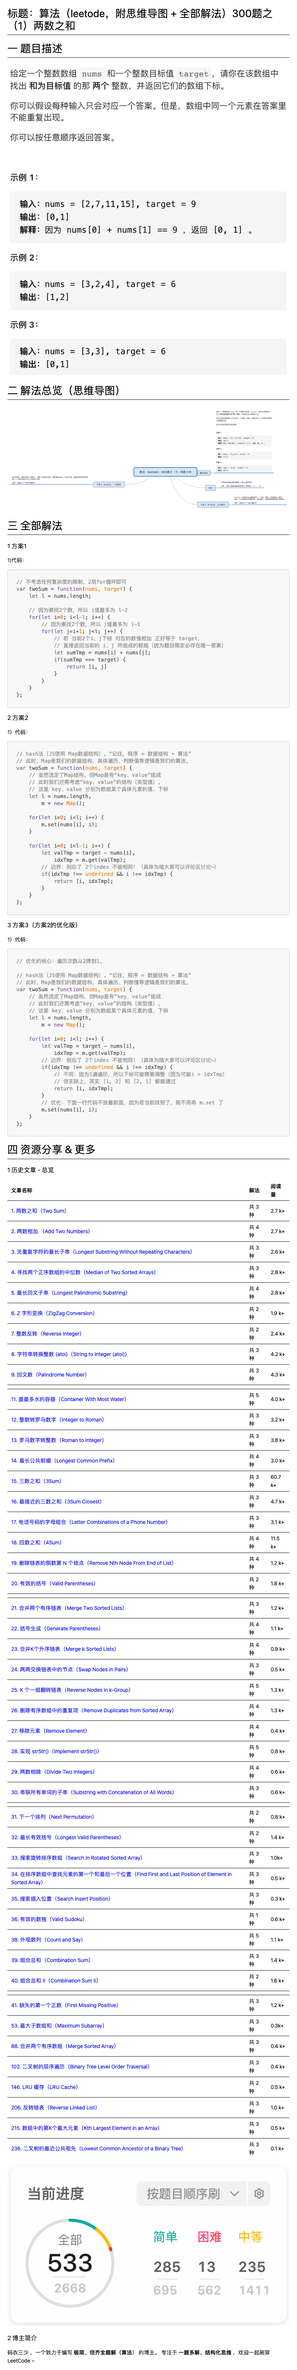
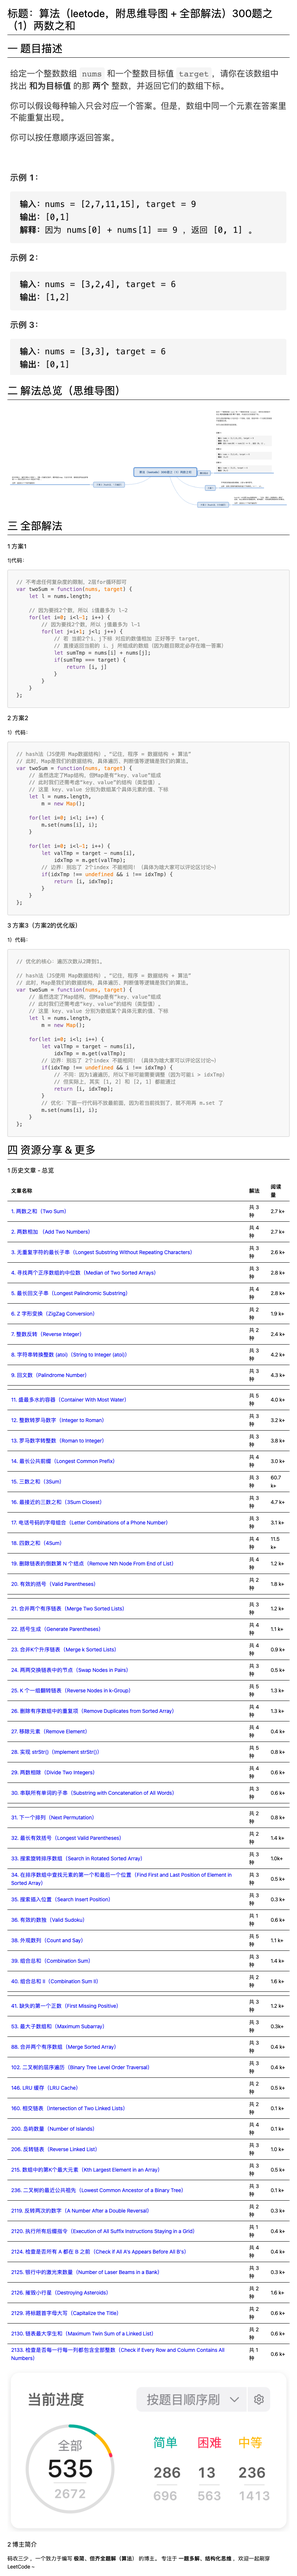
增加:1-10题的png文件

diff --git a/5. 最长回文子串（Longest Palindromic Substring）/index.md b/5. 最长回文子串（Longest Palindromic Substring）/index.md
@@ -5,7 +5,6 @@
 ![题目描述](https://cdn.jsdelivr.net/gh/CYBYOB/img/2021-8-1/1627790309769-image.png)
 
 # 二 解法总览（思维导图）
-
 ![思维导图](https://cdn.jsdelivr.net/gh/CYBYOB/img/2021-8-1/1627807351493-%E7%AE%97%E6%B3%95%EF%BC%88leetode%EF%BC%8C%E9%99%84%E6%80%9D%E7%BB%B4%E5%AF%BC%E5%9B%BE%20+%20%E5%85%A8%E9%83%A8%E8%A7%A3%E6%B3%95%EF%BC%89300%E9%A2%98%E4%B9%8B%EF%BC%885%EF%BC%89%E6%9C%80%E9%95%BF%E5%9B%9E%E6%96%87%E5%AD%90%E4%B8%B2.png)
 
 # 三 全部解法
@@ -197,7 +196,6 @@ class Solution {
 
 # 四 资源分享 & 更多
 ### 1 历史文章 - 总览
-
 |  文章名称  |  解法  |  阅读量  |
 |  ----  |  ----  |  ----  |
 | [1. 两数之和（Two Sum）](https://www.nowcoder.com/discuss/694669)  |  共 3 种  |  2.7 k+  |
@@ -247,11 +245,21 @@ class Solution {
 | [88. 合并两个有序数组（Merge Sorted Array）](https://www.nowcoder.com/discuss/964446)  |  共 3 种  |  0.4 k+  |
 | [102. 二叉树的层序遍历（Binary Tree Level Order Traversal）](https://www.nowcoder.com/discuss/963081)  |  共 3 种  |  0.4 k+  |
 | [146. LRU 缓存（LRU Cache）](https://www.nowcoder.com/discuss/953216)  |  共 2 种  |  0.5 k+  |
+| [160. 相交链表（Intersection of Two Linked Lists）](https://www.nowcoder.com/discuss/967316)  |  共 2 种  |  0.1 k+  |
+| [200. 岛屿数量（Number of Islands）](https://www.nowcoder.com/discuss/967192)  |  共 4 种  |  0.1 k+  |
 | [206. 反转链表（Reverse Linked List）](https://www.nowcoder.com/discuss/952847)  |  共 3 种  |  1.0 k+  |
 | [215. 数组中的第K个最大元素（Kth Largest Element in an Array）](https://www.nowcoder.com/discuss/956928)  |  共 3 种  |  0.5 k+  |
 | [236. 二叉树的最近公共祖先（Lowest Common Ancestor of a Binary Tree）](https://www.nowcoder.com/discuss/964696)  |  共 3 种  |  0.1 k+  |
+| [2119. 反转两次的数字（A Number After a Double Reversal）](https://www.nowcoder.com/discuss/867972)  |  共 2 种  |  0.3 k+  |
+| [2120. 执行所有后缀指令（Execution of All Suffix Instructions Staying in a Grid）](https://www.nowcoder.com/discuss/846814)  |  共 1 种  |  0.4 k+  |
+| [2124. 检查是否所有 A 都在 B 之前（Check if All A's Appears Before All B's）](https://www.nowcoder.com/discuss/841288)  |  共 4 种  |  0.4 k+  |
+| [2125. 银行中的激光束数量（Number of Laser Beams in a Bank）](https://www.nowcoder.com/discuss/840968)  |  共 3 种  |  0.3 k+  |
+| [2126. 摧毁小行星（Destroying Asteroids）](https://www.nowcoder.com/discuss/834640)  |  共 2 种  |  1.6 k+  |
+| [2129. 将标题首字母大写（Capitalize the Title）](https://www.nowcoder.com/discuss/832690)  |  共 2 种  |  0.6 k+  |
+| [2130. 链表最大孪生和（Maximum Twin Sum of a Linked List）](https://www.nowcoder.com/discuss/832131)  |  共 2 种  |  0.6 k+  |
+| [2133. 检查是否每一行每一列都包含全部整数（Check if Every Row and Column Contains All Numbers）](https://www.nowcoder.com/discuss/830828)  |  共 1 种  |  0.6 k+  |
 
-![刷题进度 - LeetCode：527 / 2662 、《剑指offer》：66 / 66 ](https://files.mdnice.com/user/6999/225e837b-a0b7-4cc7-b86d-a77f9bf01367.png)
+![刷题进度 - LeetCode：535 / 2672 、《剑指offer》：66 / 66 ](https://files.mdnice.com/user/6999/de513ce9-a168-4c0a-8940-81779d59e83b.png)
 
 ### 2 博主简介
 码农三少 ，一个致力于编写 **极简、但齐全题解（算法**） 的博主。

diff --git a/7. 整数反转（Reverse Integer）/index.md b/7. 整数反转（Reverse Integer）/index.md
@@ -1,8 +1,5 @@
 # 零 标题：算法（leetode，附思维导图 + 全部解法）300题之（7）整数反转
 
-# 导读：
-![我的解法很多 且 很 sao，你忍一下~](https://cdn.jsdelivr.net/gh/CYBYOB/img/2021-8-10/1628599234603-image.png)
-
 # 一 题目描述
 ![题目描述](https://cdn.jsdelivr.net/gh/CYBYOB/img/2021-8-7/1628325944833-image.png)
 ![题目描述](https://cdn.jsdelivr.net/gh/CYBYOB/img/2021-8-7/1628325955688-image.png)
@@ -89,7 +86,6 @@ var reverse = function(x) {
 
 # 四 资源分享 & 更多
 ### 1 历史文章 - 总览
-
 |  文章名称  |  解法  |  阅读量  |
 |  ----  |  ----  |  ----  |
 | [1. 两数之和（Two Sum）](https://www.nowcoder.com/discuss/694669)  |  共 3 种  |  2.7 k+  |
@@ -139,11 +135,21 @@ var reverse = function(x) {
 | [88. 合并两个有序数组（Merge Sorted Array）](https://www.nowcoder.com/discuss/964446)  |  共 3 种  |  0.4 k+  |
 | [102. 二叉树的层序遍历（Binary Tree Level Order Traversal）](https://www.nowcoder.com/discuss/963081)  |  共 3 种  |  0.4 k+  |
 | [146. LRU 缓存（LRU Cache）](https://www.nowcoder.com/discuss/953216)  |  共 2 种  |  0.5 k+  |
+| [160. 相交链表（Intersection of Two Linked Lists）](https://www.nowcoder.com/discuss/967316)  |  共 2 种  |  0.1 k+  |
+| [200. 岛屿数量（Number of Islands）](https://www.nowcoder.com/discuss/967192)  |  共 4 种  |  0.1 k+  |
 | [206. 反转链表（Reverse Linked List）](https://www.nowcoder.com/discuss/952847)  |  共 3 种  |  1.0 k+  |
 | [215. 数组中的第K个最大元素（Kth Largest Element in an Array）](https://www.nowcoder.com/discuss/956928)  |  共 3 种  |  0.5 k+  |
 | [236. 二叉树的最近公共祖先（Lowest Common Ancestor of a Binary Tree）](https://www.nowcoder.com/discuss/964696)  |  共 3 种  |  0.1 k+  |
+| [2119. 反转两次的数字（A Number After a Double Reversal）](https://www.nowcoder.com/discuss/867972)  |  共 2 种  |  0.3 k+  |
+| [2120. 执行所有后缀指令（Execution of All Suffix Instructions Staying in a Grid）](https://www.nowcoder.com/discuss/846814)  |  共 1 种  |  0.4 k+  |
+| [2124. 检查是否所有 A 都在 B 之前（Check if All A's Appears Before All B's）](https://www.nowcoder.com/discuss/841288)  |  共 4 种  |  0.4 k+  |
+| [2125. 银行中的激光束数量（Number of Laser Beams in a Bank）](https://www.nowcoder.com/discuss/840968)  |  共 3 种  |  0.3 k+  |
+| [2126. 摧毁小行星（Destroying Asteroids）](https://www.nowcoder.com/discuss/834640)  |  共 2 种  |  1.6 k+  |
+| [2129. 将标题首字母大写（Capitalize the Title）](https://www.nowcoder.com/discuss/832690)  |  共 2 种  |  0.6 k+  |
+| [2130. 链表最大孪生和（Maximum Twin Sum of a Linked List）](https://www.nowcoder.com/discuss/832131)  |  共 2 种  |  0.6 k+  |
+| [2133. 检查是否每一行每一列都包含全部整数（Check if Every Row and Column Contains All Numbers）](https://www.nowcoder.com/discuss/830828)  |  共 1 种  |  0.6 k+  |
 
-![刷题进度 - LeetCode：527 / 2662 、《剑指offer》：66 / 66 ](https://files.mdnice.com/user/6999/225e837b-a0b7-4cc7-b86d-a77f9bf01367.png)
+![刷题进度 - LeetCode：535 / 2672 、《剑指offer》：66 / 66 ](https://files.mdnice.com/user/6999/de513ce9-a168-4c0a-8940-81779d59e83b.png)
 
 ### 2 博主简介
 码农三少 ，一个致力于编写 **极简、但齐全题解（算法**） 的博主。

diff --git a/1. 两数之和（Two Sum）/index.md b/1. 两数之和（Two Sum）/index.md
@@ -4,7 +4,6 @@
 ![两数之和的题目描述](https://cdn.jsdelivr.net/gh/CYBYOB/img/2021-5-9/1620527340333-image.png)
 
 # 二 解法总览（思维导图）
-
 ![算法（leetode）300题之（1）两数之和【解法思维导图】](https://files.mdnice.com/user/6999/33b3825c-b514-4752-acde-ec4891305ce5.png)
 
 # 三 全部解法
@@ -88,7 +87,6 @@ var twoSum = function(nums, target) {
 
 # 四 资源分享 & 更多
 ### 1 历史文章 - 总览
-
 |  文章名称  |  解法  |  阅读量  |
 |  ----  |  ----  |  ----  |
 | [1. 两数之和（Two Sum）](https://www.nowcoder.com/discuss/694669)  |  共 3 种  |  2.7 k+  |
@@ -138,11 +136,21 @@ var twoSum = function(nums, target) {
 | [88. 合并两个有序数组（Merge Sorted Array）](https://www.nowcoder.com/discuss/964446)  |  共 3 种  |  0.4 k+  |
 | [102. 二叉树的层序遍历（Binary Tree Level Order Traversal）](https://www.nowcoder.com/discuss/963081)  |  共 3 种  |  0.4 k+  |
 | [146. LRU 缓存（LRU Cache）](https://www.nowcoder.com/discuss/953216)  |  共 2 种  |  0.5 k+  |
+| [160. 相交链表（Intersection of Two Linked Lists）](https://www.nowcoder.com/discuss/967316)  |  共 2 种  |  0.1 k+  |
+| [200. 岛屿数量（Number of Islands）](https://www.nowcoder.com/discuss/967192)  |  共 4 种  |  0.1 k+  |
 | [206. 反转链表（Reverse Linked List）](https://www.nowcoder.com/discuss/952847)  |  共 3 种  |  1.0 k+  |
 | [215. 数组中的第K个最大元素（Kth Largest Element in an Array）](https://www.nowcoder.com/discuss/956928)  |  共 3 种  |  0.5 k+  |
 | [236. 二叉树的最近公共祖先（Lowest Common Ancestor of a Binary Tree）](https://www.nowcoder.com/discuss/964696)  |  共 3 种  |  0.1 k+  |
+| [2119. 反转两次的数字（A Number After a Double Reversal）](https://www.nowcoder.com/discuss/867972)  |  共 2 种  |  0.3 k+  |
+| [2120. 执行所有后缀指令（Execution of All Suffix Instructions Staying in a Grid）](https://www.nowcoder.com/discuss/846814)  |  共 1 种  |  0.4 k+  |
+| [2124. 检查是否所有 A 都在 B 之前（Check if All A's Appears Before All B's）](https://www.nowcoder.com/discuss/841288)  |  共 4 种  |  0.4 k+  |
+| [2125. 银行中的激光束数量（Number of Laser Beams in a Bank）](https://www.nowcoder.com/discuss/840968)  |  共 3 种  |  0.3 k+  |
+| [2126. 摧毁小行星（Destroying Asteroids）](https://www.nowcoder.com/discuss/834640)  |  共 2 种  |  1.6 k+  |
+| [2129. 将标题首字母大写（Capitalize the Title）](https://www.nowcoder.com/discuss/832690)  |  共 2 种  |  0.6 k+  |
+| [2130. 链表最大孪生和（Maximum Twin Sum of a Linked List）](https://www.nowcoder.com/discuss/832131)  |  共 2 种  |  0.6 k+  |
+| [2133. 检查是否每一行每一列都包含全部整数（Check if Every Row and Column Contains All Numbers）](https://www.nowcoder.com/discuss/830828)  |  共 1 种  |  0.6 k+  |
 
-![刷题进度 - LeetCode：527 / 2662 、《剑指offer》：66 / 66 ](https://files.mdnice.com/user/6999/225e837b-a0b7-4cc7-b86d-a77f9bf01367.png)
+![刷题进度 - LeetCode：535 / 2672 、《剑指offer》：66 / 66 ](https://files.mdnice.com/user/6999/de513ce9-a168-4c0a-8940-81779d59e83b.png)
 
 ### 2 博主简介
 码农三少 ，一个致力于编写 **极简、但齐全题解（算法**） 的博主。

diff --git a/2. 两数相加（Add Two Numbers）/index.md b/2. 两数相加（Add Two Numbers）/index.md
@@ -169,7 +169,6 @@ var addTwoNumbers = function(l1, l2) {
 
 # 四 资源分享 & 更多
 ### 1 历史文章 - 总览
-
 |  文章名称  |  解法  |  阅读量  |
 |  ----  |  ----  |  ----  |
 | [1. 两数之和（Two Sum）](https://www.nowcoder.com/discuss/694669)  |  共 3 种  |  2.7 k+  |
@@ -219,11 +218,21 @@ var addTwoNumbers = function(l1, l2) {
 | [88. 合并两个有序数组（Merge Sorted Array）](https://www.nowcoder.com/discuss/964446)  |  共 3 种  |  0.4 k+  |
 | [102. 二叉树的层序遍历（Binary Tree Level Order Traversal）](https://www.nowcoder.com/discuss/963081)  |  共 3 种  |  0.4 k+  |
 | [146. LRU 缓存（LRU Cache）](https://www.nowcoder.com/discuss/953216)  |  共 2 种  |  0.5 k+  |
+| [160. 相交链表（Intersection of Two Linked Lists）](https://www.nowcoder.com/discuss/967316)  |  共 2 种  |  0.1 k+  |
+| [200. 岛屿数量（Number of Islands）](https://www.nowcoder.com/discuss/967192)  |  共 4 种  |  0.1 k+  |
 | [206. 反转链表（Reverse Linked List）](https://www.nowcoder.com/discuss/952847)  |  共 3 种  |  1.0 k+  |
 | [215. 数组中的第K个最大元素（Kth Largest Element in an Array）](https://www.nowcoder.com/discuss/956928)  |  共 3 种  |  0.5 k+  |
 | [236. 二叉树的最近公共祖先（Lowest Common Ancestor of a Binary Tree）](https://www.nowcoder.com/discuss/964696)  |  共 3 种  |  0.1 k+  |
+| [2119. 反转两次的数字（A Number After a Double Reversal）](https://www.nowcoder.com/discuss/867972)  |  共 2 种  |  0.3 k+  |
+| [2120. 执行所有后缀指令（Execution of All Suffix Instructions Staying in a Grid）](https://www.nowcoder.com/discuss/846814)  |  共 1 种  |  0.4 k+  |
+| [2124. 检查是否所有 A 都在 B 之前（Check if All A's Appears Before All B's）](https://www.nowcoder.com/discuss/841288)  |  共 4 种  |  0.4 k+  |
+| [2125. 银行中的激光束数量（Number of Laser Beams in a Bank）](https://www.nowcoder.com/discuss/840968)  |  共 3 种  |  0.3 k+  |
+| [2126. 摧毁小行星（Destroying Asteroids）](https://www.nowcoder.com/discuss/834640)  |  共 2 种  |  1.6 k+  |
+| [2129. 将标题首字母大写（Capitalize the Title）](https://www.nowcoder.com/discuss/832690)  |  共 2 种  |  0.6 k+  |
+| [2130. 链表最大孪生和（Maximum Twin Sum of a Linked List）](https://www.nowcoder.com/discuss/832131)  |  共 2 种  |  0.6 k+  |
+| [2133. 检查是否每一行每一列都包含全部整数（Check if Every Row and Column Contains All Numbers）](https://www.nowcoder.com/discuss/830828)  |  共 1 种  |  0.6 k+  |
 
-![刷题进度 - LeetCode：527 / 2662 、《剑指offer》：66 / 66 ](https://files.mdnice.com/user/6999/225e837b-a0b7-4cc7-b86d-a77f9bf01367.png)
+![刷题进度 - LeetCode：535 / 2672 、《剑指offer》：66 / 66 ](https://files.mdnice.com/user/6999/de513ce9-a168-4c0a-8940-81779d59e83b.png)
 
 ### 2 博主简介
 码农三少 ，一个致力于编写 **极简、但齐全题解（算法**） 的博主。

diff --git a/6. Z 字形变换（ZigZag Conversion）/index.md b/6. Z 字形变换（ZigZag Conversion）/index.md
@@ -94,7 +94,6 @@ var convert = function(s, numRows) {
 
 # 四 资源分享 & 更多
 ### 1 历史文章 - 总览
-
 |  文章名称  |  解法  |  阅读量  |
 |  ----  |  ----  |  ----  |
 | [1. 两数之和（Two Sum）](https://www.nowcoder.com/discuss/694669)  |  共 3 种  |  2.7 k+  |
@@ -144,11 +143,21 @@ var convert = function(s, numRows) {
 | [88. 合并两个有序数组（Merge Sorted Array）](https://www.nowcoder.com/discuss/964446)  |  共 3 种  |  0.4 k+  |
 | [102. 二叉树的层序遍历（Binary Tree Level Order Traversal）](https://www.nowcoder.com/discuss/963081)  |  共 3 种  |  0.4 k+  |
 | [146. LRU 缓存（LRU Cache）](https://www.nowcoder.com/discuss/953216)  |  共 2 种  |  0.5 k+  |
+| [160. 相交链表（Intersection of Two Linked Lists）](https://www.nowcoder.com/discuss/967316)  |  共 2 种  |  0.1 k+  |
+| [200. 岛屿数量（Number of Islands）](https://www.nowcoder.com/discuss/967192)  |  共 4 种  |  0.1 k+  |
 | [206. 反转链表（Reverse Linked List）](https://www.nowcoder.com/discuss/952847)  |  共 3 种  |  1.0 k+  |
 | [215. 数组中的第K个最大元素（Kth Largest Element in an Array）](https://www.nowcoder.com/discuss/956928)  |  共 3 种  |  0.5 k+  |
 | [236. 二叉树的最近公共祖先（Lowest Common Ancestor of a Binary Tree）](https://www.nowcoder.com/discuss/964696)  |  共 3 种  |  0.1 k+  |
+| [2119. 反转两次的数字（A Number After a Double Reversal）](https://www.nowcoder.com/discuss/867972)  |  共 2 种  |  0.3 k+  |
+| [2120. 执行所有后缀指令（Execution of All Suffix Instructions Staying in a Grid）](https://www.nowcoder.com/discuss/846814)  |  共 1 种  |  0.4 k+  |
+| [2124. 检查是否所有 A 都在 B 之前（Check if All A's Appears Before All B's）](https://www.nowcoder.com/discuss/841288)  |  共 4 种  |  0.4 k+  |
+| [2125. 银行中的激光束数量（Number of Laser Beams in a Bank）](https://www.nowcoder.com/discuss/840968)  |  共 3 种  |  0.3 k+  |
+| [2126. 摧毁小行星（Destroying Asteroids）](https://www.nowcoder.com/discuss/834640)  |  共 2 种  |  1.6 k+  |
+| [2129. 将标题首字母大写（Capitalize the Title）](https://www.nowcoder.com/discuss/832690)  |  共 2 种  |  0.6 k+  |
+| [2130. 链表最大孪生和（Maximum Twin Sum of a Linked List）](https://www.nowcoder.com/discuss/832131)  |  共 2 种  |  0.6 k+  |
+| [2133. 检查是否每一行每一列都包含全部整数（Check if Every Row and Column Contains All Numbers）](https://www.nowcoder.com/discuss/830828)  |  共 1 种  |  0.6 k+  |
 
-![刷题进度 - LeetCode：527 / 2662 、《剑指offer》：66 / 66 ](https://files.mdnice.com/user/6999/225e837b-a0b7-4cc7-b86d-a77f9bf01367.png)
+![刷题进度 - LeetCode：535 / 2672 、《剑指offer》：66 / 66 ](https://files.mdnice.com/user/6999/de513ce9-a168-4c0a-8940-81779d59e83b.png)
 
 ### 2 博主简介
 码农三少 ，一个致力于编写 **极简、但齐全题解（算法**） 的博主。

diff --git a/9. 回文数（Palindrome Number）/index.md b/9. 回文数（Palindrome Number）/index.md
@@ -73,7 +73,6 @@ var isPalindrome = function(x) {
 
 # 四 资源分享 & 更多
 ### 1 历史文章 - 总览
-
 |  文章名称  |  解法  |  阅读量  |
 |  ----  |  ----  |  ----  |
 | [1. 两数之和（Two Sum）](https://www.nowcoder.com/discuss/694669)  |  共 3 种  |  2.7 k+  |
@@ -123,11 +122,21 @@ var isPalindrome = function(x) {
 | [88. 合并两个有序数组（Merge Sorted Array）](https://www.nowcoder.com/discuss/964446)  |  共 3 种  |  0.4 k+  |
 | [102. 二叉树的层序遍历（Binary Tree Level Order Traversal）](https://www.nowcoder.com/discuss/963081)  |  共 3 种  |  0.4 k+  |
 | [146. LRU 缓存（LRU Cache）](https://www.nowcoder.com/discuss/953216)  |  共 2 种  |  0.5 k+  |
+| [160. 相交链表（Intersection of Two Linked Lists）](https://www.nowcoder.com/discuss/967316)  |  共 2 种  |  0.1 k+  |
+| [200. 岛屿数量（Number of Islands）](https://www.nowcoder.com/discuss/967192)  |  共 4 种  |  0.1 k+  |
 | [206. 反转链表（Reverse Linked List）](https://www.nowcoder.com/discuss/952847)  |  共 3 种  |  1.0 k+  |
 | [215. 数组中的第K个最大元素（Kth Largest Element in an Array）](https://www.nowcoder.com/discuss/956928)  |  共 3 种  |  0.5 k+  |
 | [236. 二叉树的最近公共祖先（Lowest Common Ancestor of a Binary Tree）](https://www.nowcoder.com/discuss/964696)  |  共 3 种  |  0.1 k+  |
+| [2119. 反转两次的数字（A Number After a Double Reversal）](https://www.nowcoder.com/discuss/867972)  |  共 2 种  |  0.3 k+  |
+| [2120. 执行所有后缀指令（Execution of All Suffix Instructions Staying in a Grid）](https://www.nowcoder.com/discuss/846814)  |  共 1 种  |  0.4 k+  |
+| [2124. 检查是否所有 A 都在 B 之前（Check if All A's Appears Before All B's）](https://www.nowcoder.com/discuss/841288)  |  共 4 种  |  0.4 k+  |
+| [2125. 银行中的激光束数量（Number of Laser Beams in a Bank）](https://www.nowcoder.com/discuss/840968)  |  共 3 种  |  0.3 k+  |
+| [2126. 摧毁小行星（Destroying Asteroids）](https://www.nowcoder.com/discuss/834640)  |  共 2 种  |  1.6 k+  |
+| [2129. 将标题首字母大写（Capitalize the Title）](https://www.nowcoder.com/discuss/832690)  |  共 2 种  |  0.6 k+  |
+| [2130. 链表最大孪生和（Maximum Twin Sum of a Linked List）](https://www.nowcoder.com/discuss/832131)  |  共 2 种  |  0.6 k+  |
+| [2133. 检查是否每一行每一列都包含全部整数（Check if Every Row and Column Contains All Numbers）](https://www.nowcoder.com/discuss/830828)  |  共 1 种  |  0.6 k+  |
 
-![刷题进度 - LeetCode：527 / 2662 、《剑指offer》：66 / 66 ](https://files.mdnice.com/user/6999/225e837b-a0b7-4cc7-b86d-a77f9bf01367.png)
+![刷题进度 - LeetCode：535 / 2672 、《剑指offer》：66 / 66 ](https://files.mdnice.com/user/6999/de513ce9-a168-4c0a-8940-81779d59e83b.png)
 
 ### 2 博主简介
 码农三少 ，一个致力于编写 **极简、但齐全题解（算法**） 的博主。

diff --git a/8. 字符串转换整数(atoi)（String to Integer (atoi)）/index.md b/8. 字符串转换整数(atoi)（String to Integer (atoi)）/index.md
@@ -161,7 +161,6 @@ var myAtoi = function(str) {
 
 # 四 资源分享 & 更多
 ### 1 历史文章 - 总览
-
 |  文章名称  |  解法  |  阅读量  |
 |  ----  |  ----  |  ----  |
 | [1. 两数之和（Two Sum）](https://www.nowcoder.com/discuss/694669)  |  共 3 种  |  2.7 k+  |
@@ -211,11 +210,21 @@ var myAtoi = function(str) {
 | [88. 合并两个有序数组（Merge Sorted Array）](https://www.nowcoder.com/discuss/964446)  |  共 3 种  |  0.4 k+  |
 | [102. 二叉树的层序遍历（Binary Tree Level Order Traversal）](https://www.nowcoder.com/discuss/963081)  |  共 3 种  |  0.4 k+  |
 | [146. LRU 缓存（LRU Cache）](https://www.nowcoder.com/discuss/953216)  |  共 2 种  |  0.5 k+  |
+| [160. 相交链表（Intersection of Two Linked Lists）](https://www.nowcoder.com/discuss/967316)  |  共 2 种  |  0.1 k+  |
+| [200. 岛屿数量（Number of Islands）](https://www.nowcoder.com/discuss/967192)  |  共 4 种  |  0.1 k+  |
 | [206. 反转链表（Reverse Linked List）](https://www.nowcoder.com/discuss/952847)  |  共 3 种  |  1.0 k+  |
 | [215. 数组中的第K个最大元素（Kth Largest Element in an Array）](https://www.nowcoder.com/discuss/956928)  |  共 3 种  |  0.5 k+  |
 | [236. 二叉树的最近公共祖先（Lowest Common Ancestor of a Binary Tree）](https://www.nowcoder.com/discuss/964696)  |  共 3 种  |  0.1 k+  |
+| [2119. 反转两次的数字（A Number After a Double Reversal）](https://www.nowcoder.com/discuss/867972)  |  共 2 种  |  0.3 k+  |
+| [2120. 执行所有后缀指令（Execution of All Suffix Instructions Staying in a Grid）](https://www.nowcoder.com/discuss/846814)  |  共 1 种  |  0.4 k+  |
+| [2124. 检查是否所有 A 都在 B 之前（Check if All A's Appears Before All B's）](https://www.nowcoder.com/discuss/841288)  |  共 4 种  |  0.4 k+  |
+| [2125. 银行中的激光束数量（Number of Laser Beams in a Bank）](https://www.nowcoder.com/discuss/840968)  |  共 3 种  |  0.3 k+  |
+| [2126. 摧毁小行星（Destroying Asteroids）](https://www.nowcoder.com/discuss/834640)  |  共 2 种  |  1.6 k+  |
+| [2129. 将标题首字母大写（Capitalize the Title）](https://www.nowcoder.com/discuss/832690)  |  共 2 种  |  0.6 k+  |
+| [2130. 链表最大孪生和（Maximum Twin Sum of a Linked List）](https://www.nowcoder.com/discuss/832131)  |  共 2 种  |  0.6 k+  |
+| [2133. 检查是否每一行每一列都包含全部整数（Check if Every Row and Column Contains All Numbers）](https://www.nowcoder.com/discuss/830828)  |  共 1 种  |  0.6 k+  |
 
-![刷题进度 - LeetCode：527 / 2662 、《剑指offer》：66 / 66 ](https://files.mdnice.com/user/6999/225e837b-a0b7-4cc7-b86d-a77f9bf01367.png)
+![刷题进度 - LeetCode：535 / 2672 、《剑指offer》：66 / 66 ](https://files.mdnice.com/user/6999/de513ce9-a168-4c0a-8940-81779d59e83b.png)
 
 ### 2 博主简介
 码农三少 ，一个致力于编写 **极简、但齐全题解（算法**） 的博主。
